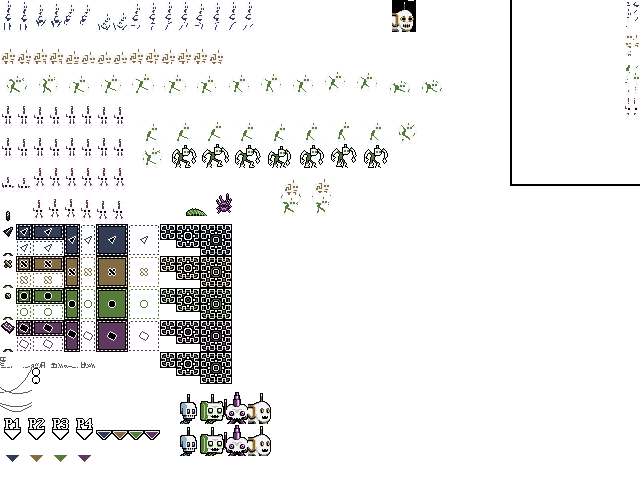
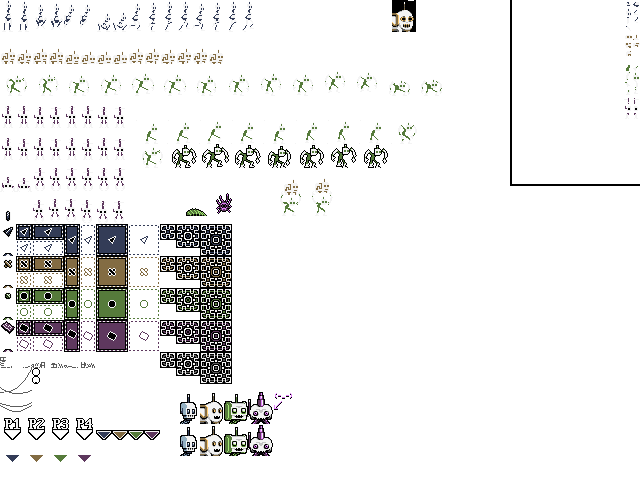
started laying groundwork for dialog

Changed region(s): [[0.3125, 0.8125, 0.4375, 0.9688]]

diff --git a/src/game/menus.py b/src/game/menus.py
@@ -27,6 +27,7 @@ import src.game.worlds as worlds
 import src.engine.threedee as threedee
 import src.engine.threedeecine as threedeecine
 import src.game.cinematics as cinematics
+import src.game.dialog as dialog
 
 class MainMenuScene(scenes.Scene):
 
@@ -353,7 +354,7 @@ class IntroCutsceneScene(CutsceneScene):
 
 class _BaseGameScene(scenes.Scene):
 
-    def __init__(self, bp=None):
+    def __init__(self):
         scenes.Scene.__init__(self)
 
         self._world = None
@@ -376,14 +377,17 @@ class _BaseGameScene(scenes.Scene):
         return self._world_view
 
     def update_world_and_view(self):
-        if self._world is not None:
-            self._world.update()
+        pass
+
+    def update_sprites(self):
         if self._world_view is not None:
             self._world_view.update()
 
     def update(self):
-        self.update_world_and_view()
+        if self._world is not None:
+            self._world.update()
 
+        # TODO why process inputs *after* updating world? because it never matters...?
         if inputs.get_instance().mouse_in_window():
             screen_pos = inputs.get_instance().mouse_pos()
             pos_in_world = self._world_view.screen_pos_to_world_pos(screen_pos)
@@ -442,6 +446,8 @@ class Statuses:
     PARTIAL_SUCCESS = Status("partial_success", False, True, True, is_success=True)
     TOTAL_SUCCESS = Status("success", False, True, True, is_success=True)
     EXIT_NOW_SUCCESSFULLY = Status("exit_success", False, False, False, is_success=True)
+
+    DIALOG = Status("dialog", False, False, False, world_ticks_inc=False, is_success=False)
 
 
 class _GameState:
@@ -716,7 +722,7 @@ class ProgressBarUi(ui.UiElement):
         yield self.bar_sprite
 
 
-class RealGameScene(_BaseGameScene):
+class RealGameScene(_BaseGameScene, dialog.DialogScene):
 
     def __init__(self, bp, on_level_completion, on_level_exit):
         """
@@ -726,7 +732,8 @@ class RealGameScene(_BaseGameScene):
         """
         self._state = _GameState(bp)
 
-        _BaseGameScene.__init__(self, bp=bp)
+        _BaseGameScene.__init__(self)
+        dialog.DialogScene.__init__(self)
 
         self._on_level_completion = on_level_completion
         self._on_level_exit = on_level_exit
@@ -741,12 +748,6 @@ class RealGameScene(_BaseGameScene):
         self._queued_next_world = None
         self._next_world_countdown = 0
 
-    def update_world_and_view(self):
-        if self._world is not None:
-            self._world.update()
-        if self._world_view is not None:
-            self._world_view.update()
-
     def on_level_complete(self, time):
         if self._on_level_completion is not None:
             self._on_level_completion(time)
@@ -755,7 +756,14 @@ class RealGameScene(_BaseGameScene):
         if self._on_level_exit is not None:
             self._on_level_exit()
 
+    def update_sprites(self):
+        super().update_sprites()
+        self._update_ui()
+
     def update(self):
+        dialog.DialogScene.update(self)  # babby's first attempt at multiple inheritance
+
+    def update_impl(self):
         if self._queued_next_world is not None:
             if self._next_world_countdown <= 0:
                 bp, new_status, runnable = self._queued_next_world
@@ -774,7 +782,7 @@ class RealGameScene(_BaseGameScene):
         elif self._state.get_status() == Statuses.EXIT_NOW_SUCCESSFULLY:
             self._on_level_completion(self._state.get_elapsed_ticks())
 
-        super().update()
+        _BaseGameScene.update(self)
 
         self._state.update(self.get_world())
 
@@ -812,8 +820,6 @@ class RealGameScene(_BaseGameScene):
                                                     runnable=lambda: self._state.active_player_succeeded(recording))
                 else:
                     print("WARN: active player is satisfied but has no recording. hopefully we're in dev mode?")
-
-        self._update_ui()
 
     def replace_players_with_fadeout(self, delay=60):
         for i in range(0, self._state.get_active_player_idx() + 1):

diff --git a/src/game/dialog.py b/src/game/dialog.py
@@ -1,0 +1,138 @@
+import src.game.ui as ui
+import src.game.const as const
+import src.game.spriteref as spriteref
+import src.engine.scenes as scenes
+
+
+class Speaker:
+    A = const.PLAYER_FAST
+    B = const.PLAYER_SMALL
+    C = const.PLAYER_HEAVY
+    D = const.PLAYER_FLYING
+
+
+class DialogFragment:
+
+    def __init__(self, text, speaker=None):
+        self.speaker_id = speaker
+        self.text = text
+        self.next_options = []  # (answer, DialogFragment)
+
+    def set_next(self, dialog_frag) -> 'DialogFragment':
+        self.next_options = [("...", dialog_frag)]
+        return self
+
+    def add_option(self, response, dialog_frag) -> 'DialogFragment':
+        self.next_options.append((response, dialog_frag))
+        return self
+
+    def get_speaker_sprites(self):
+        if self.speaker_id is None:
+            return []
+        else:
+            return spriteref.object_sheet().get_speaker_portrait_sprites(self.speaker_id)
+
+
+def link(*frags):
+    first = None
+    last = None
+    for f in frags:
+        if first is None:
+            first = f
+        if last is not None:
+            last.set_next(f)
+        last = f
+    return first
+
+
+class DialogElement(ui.UiElement):
+
+    def __init__(self, dialog):
+        super().__init__()
+        self.current_dialog = dialog
+
+        self.current_dialog_ticks = 0
+        self.selected_option = 0
+
+    def update(self):
+        pass
+
+    def get_size(self):
+        pass
+
+
+class DialogManager:
+
+    def __init__(self):
+        self.active_dialog: DialogFragment = None
+        self._ui: DialogElement = None
+
+    def set_dialog(self, dialog_frag: DialogFragment):
+        self.active_dialog = dialog_frag
+
+    def update_sprites(self):
+        pass
+
+    def update(self):
+        pass
+
+    def get_ui(self) -> DialogElement:
+        return self._ui
+
+    def all_sprites(self):
+        if self._ui is not None:
+            for spr in self._ui.all_sprites():
+                yield spr
+        else:
+            return []
+
+    def is_active(self):
+        return self.active_dialog is not None
+
+
+class DialogScene(scenes.Scene):
+    """The parent class for scenes that support dialog."""
+
+    def __init__(self):
+        super().__init__()
+        self.dialog_manager: DialogManager = DialogManager()
+
+    def update_sprites(self):
+        if self.dialog_manager.is_active():
+            self.update_sprites()
+
+    def start_dialog(self, dialog_frag: DialogFragment):
+        self.dialog_manager.set_dialog(dialog_frag)
+
+    def is_dialog_active(self):
+        return self.dialog_manager.is_active()
+
+    def on_dialog_end(self):
+        """Called when dialog ends."""
+        pass
+
+    def update(self):
+        if self.is_dialog_active():
+            self.dialog_manager.update()
+            if not self.is_dialog_active():
+                self.on_dialog_end()
+
+        if not self.is_dialog_active():
+            # only update the underlying scene if dialog is inactive.
+            self.update_impl()
+
+    def update_impl(self):
+        raise NotImplementedError()
+
+    def all_sprites(self):
+        if self.is_dialog_active():
+            for spr in self.dialog_manager.all_sprites():
+                yield spr
+
+
+def get_test_dialog():
+    return link(DialogFragment("Here's some test text.", speaker=Speaker.A),
+                DialogFragment("And here's a test reply.", speaker=Speaker.B),
+                DialogFragment("Dialog adds a lot of life to a game, don't you think?", speaker=Speaker.C),
+                DialogFragment("Life?", speaker=Speaker.D),
+                DialogFragment("Err... life-mimicking CPU cycles, I mean.", speaker=Speaker.C))

diff --git a/src/game/spriteref.py b/src/game/spriteref.py
@@ -129,6 +129,8 @@ class _ObjectSheet(spritesheets.SpriteSheet):
             const.PLAYER_FLYING: [],
         }
 
+        self.speaker_portraits = {}
+
         self.thin_block_broken_pieces_horz = []
         self.thin_block_broken_pieces_vert = []
 
@@ -194,6 +196,12 @@ class _ObjectSheet(spritesheets.SpriteSheet):
                 return self.get_player_sprites(player_id, player_state.get_fallback())
             else:
                 return []  # no sprites exist, apparently
+
+    def get_speaker_portrait_sprites(self, speaker_id):
+        if speaker_id in self.speaker_portraits:
+            return self.speaker_portraits[speaker_id]
+        else:
+            return []
 
     def get_goal_arrow(self, player_id, alpha=1):
         return util.index_into(self.goal_arrows[player_id], alpha)
@@ -269,6 +277,12 @@ class _ObjectSheet(spritesheets.SpriteSheet):
         self.player_broken_pieces[const.PLAYER_SMALL] = self._handle_rotated_player_pieces([624, 32, 8, 8], 7, 8, atlas, start_pos)
         self.player_broken_pieces[const.PLAYER_HEAVY] = self._handle_rotated_player_pieces([624, 64, 8, 8], 8, 8, atlas, start_pos)
         self.player_broken_pieces[const.PLAYER_FLYING] = self._handle_rotated_player_pieces([624, 96, 8, 8], 6, 8, atlas, start_pos)
+
+        self.speaker_portraits[const.PLAYER_FAST] = [_img(176, 392 + i * 32, 24, 32) for i in range(0, 2)]
+        self.speaker_portraits[const.PLAYER_SMALL] = [_img(176 + 24, 392 + i * 32, 24, 32) for i in range(0, 2)]
+        self.speaker_portraits[const.PLAYER_HEAVY] = [_img(176 + 24 * 2, 392 + i * 32, 24, 32) for i in range(0, 2)]
+        player_d_portrait_width = 25  # needed another pixel, sue me~
+        self.speaker_portraits[const.PLAYER_FLYING] = [_img(176 + 24 * 3, 392 + i * 32, player_d_portrait_width, 32) for i in range(0, 2)]
 
         temp = self._handle_rotated_player_pieces([624, 128, 8, 8], 2, 8, atlas, start_pos)
         self.thin_block_broken_pieces_horz = temp[0]

diff --git a/src/engine/scenes.py b/src/engine/scenes.py
@@ -31,7 +31,17 @@ class Scene:
     def all_sprites(self):
         raise NotImplementedError()
 
+    def update_sprites(self):
+        """Creates and/or updates the sprites in the scene.
+            This method is optional and intended for scenes that want to implement a pause mode (where
+            logical updates stop but sprite updates (e.g. animations) continue). Scenes that don't require a pause
+            function may instead update their sprites in update(). Under *no* circumstances should update() call this
+            method (if update() calls this method, it will be called twice per frame).
+        """
+        pass
+
     def update(self):
+        """Performs the "logic update" for the scene."""
         raise NotImplementedError()
 
     def became_active(self):
@@ -81,4 +91,5 @@ class SceneManager:
                 self._next_scene_delay -= 1
 
         self._active_scene.update()
+        self._active_scene.update_sprites()
 

diff --git a/src/game/globalstate.py b/src/game/globalstate.py
@@ -1,4 +1,5 @@
 import src.engine.globaltimer as globaltimer
+import src.game.dialog as dialog
 
 
 class SaveAndLoadJsonBlob:
